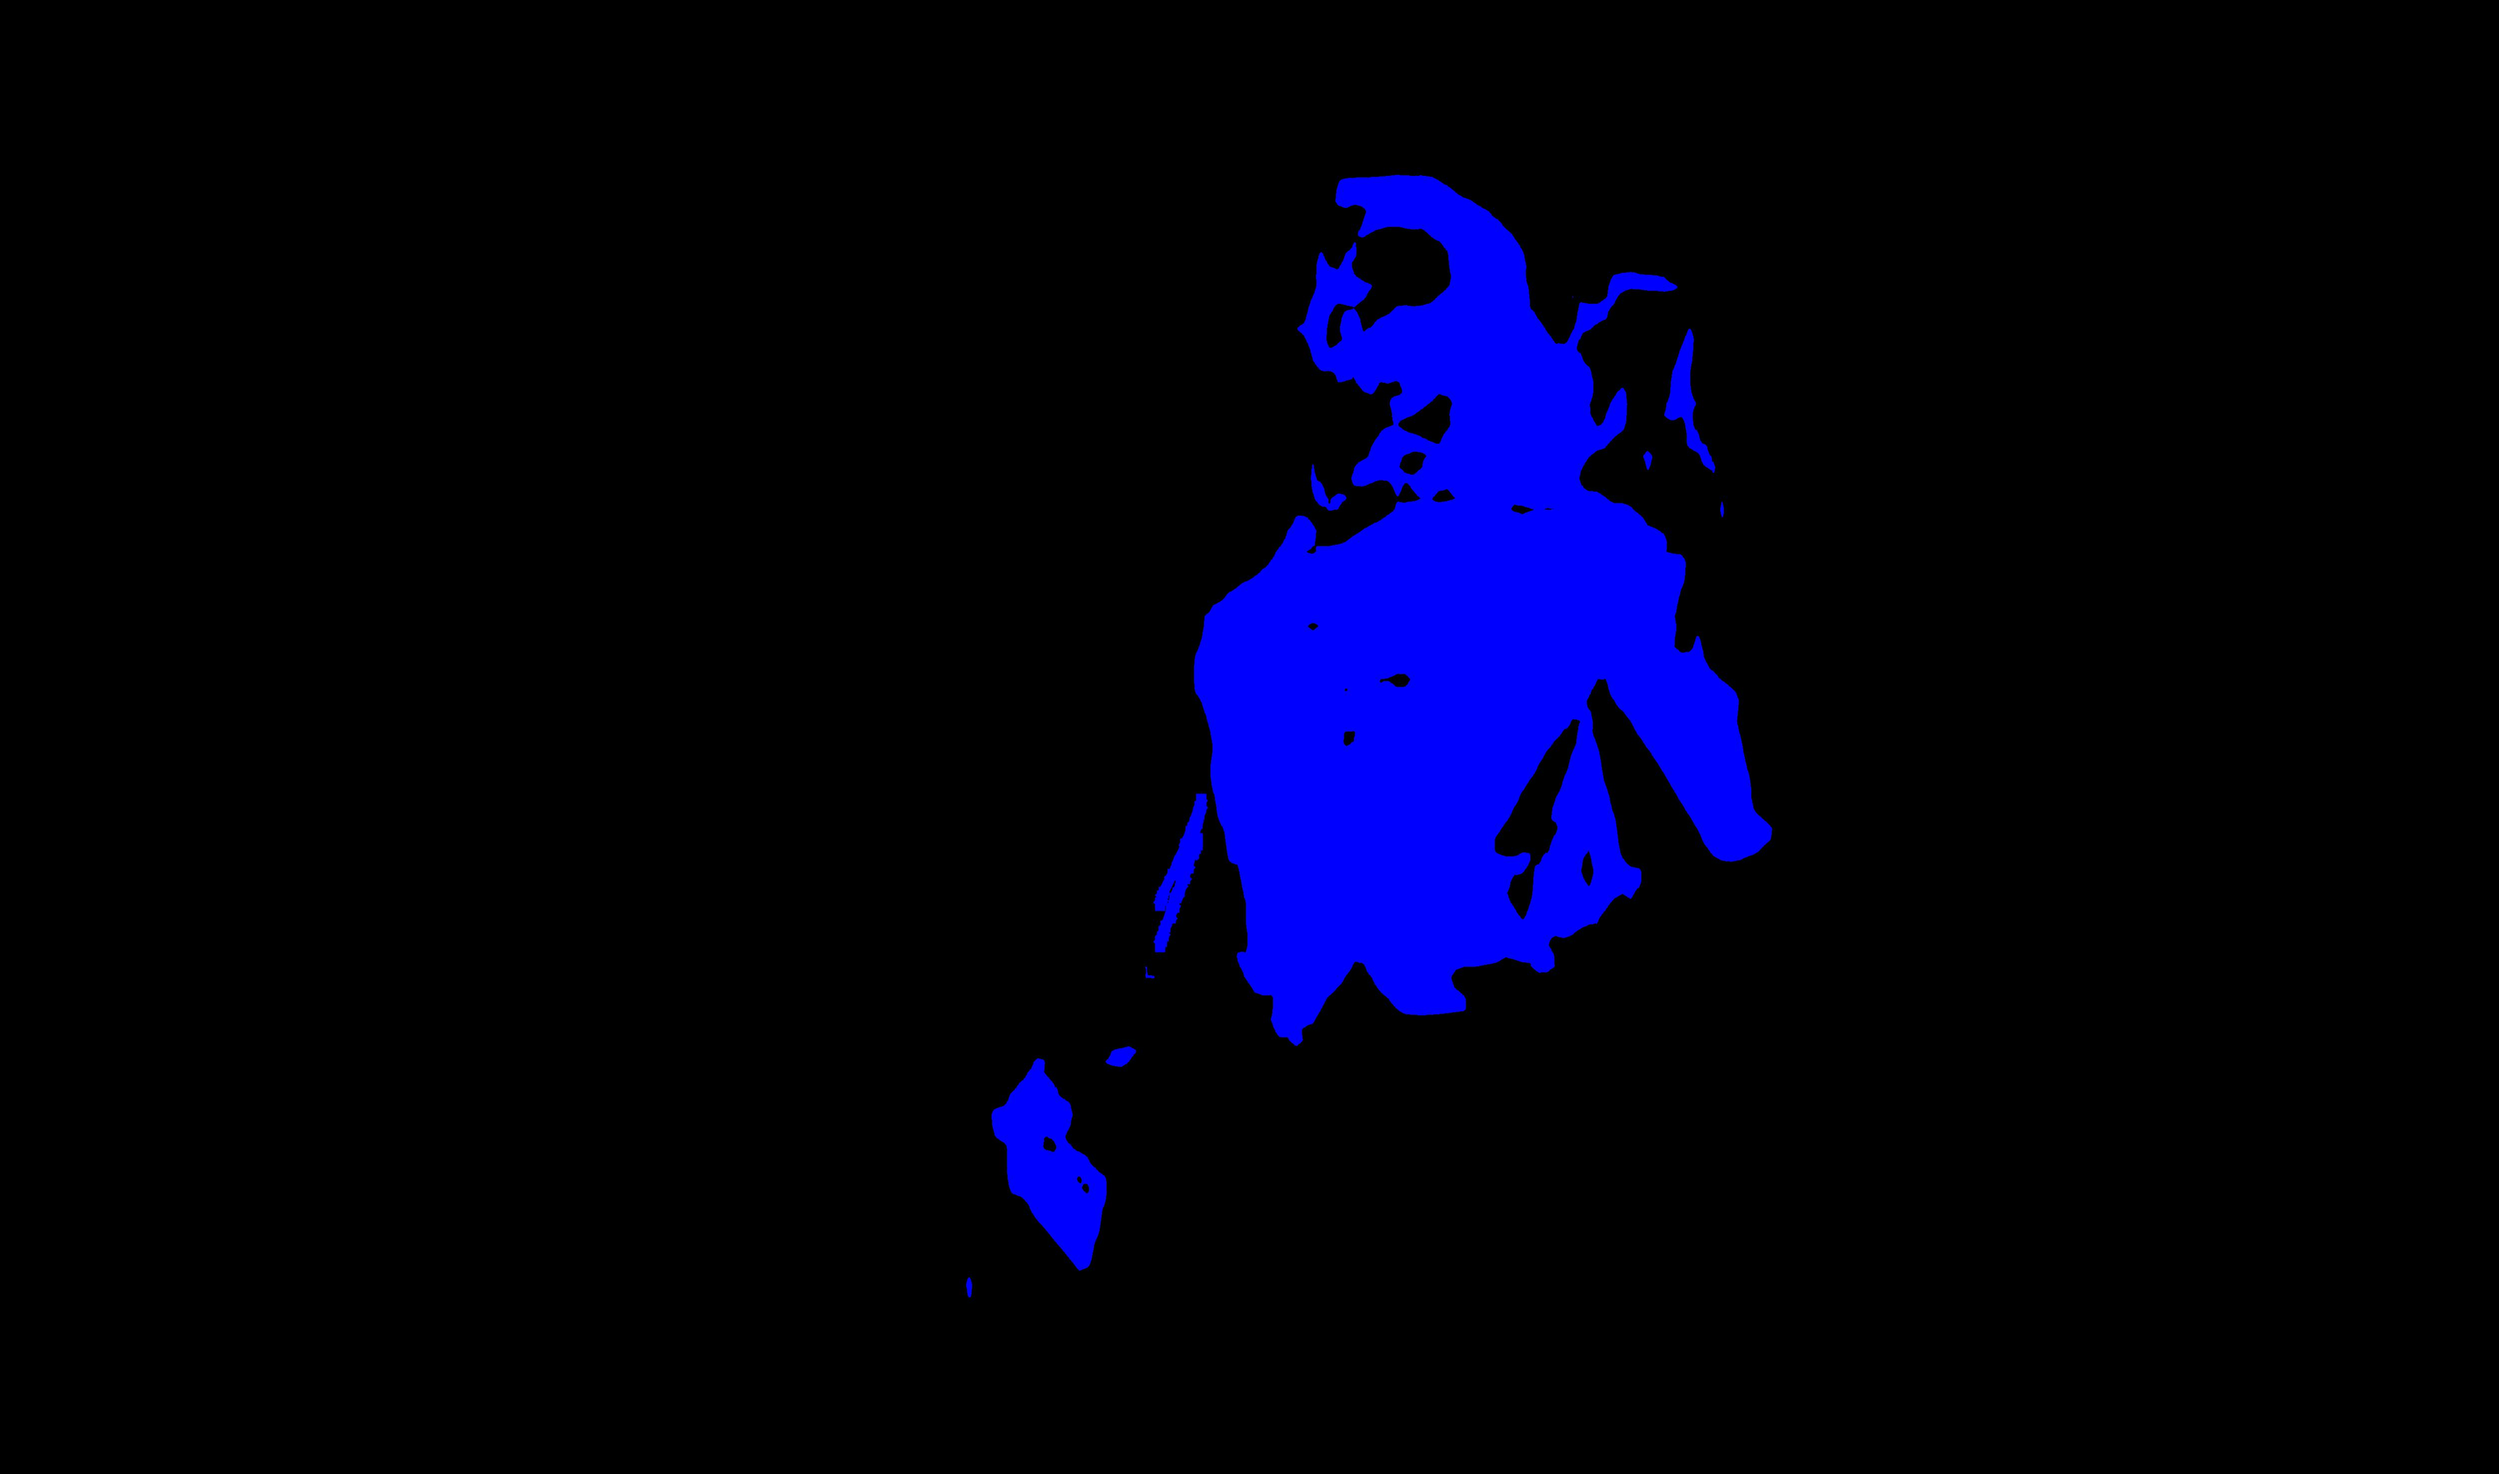
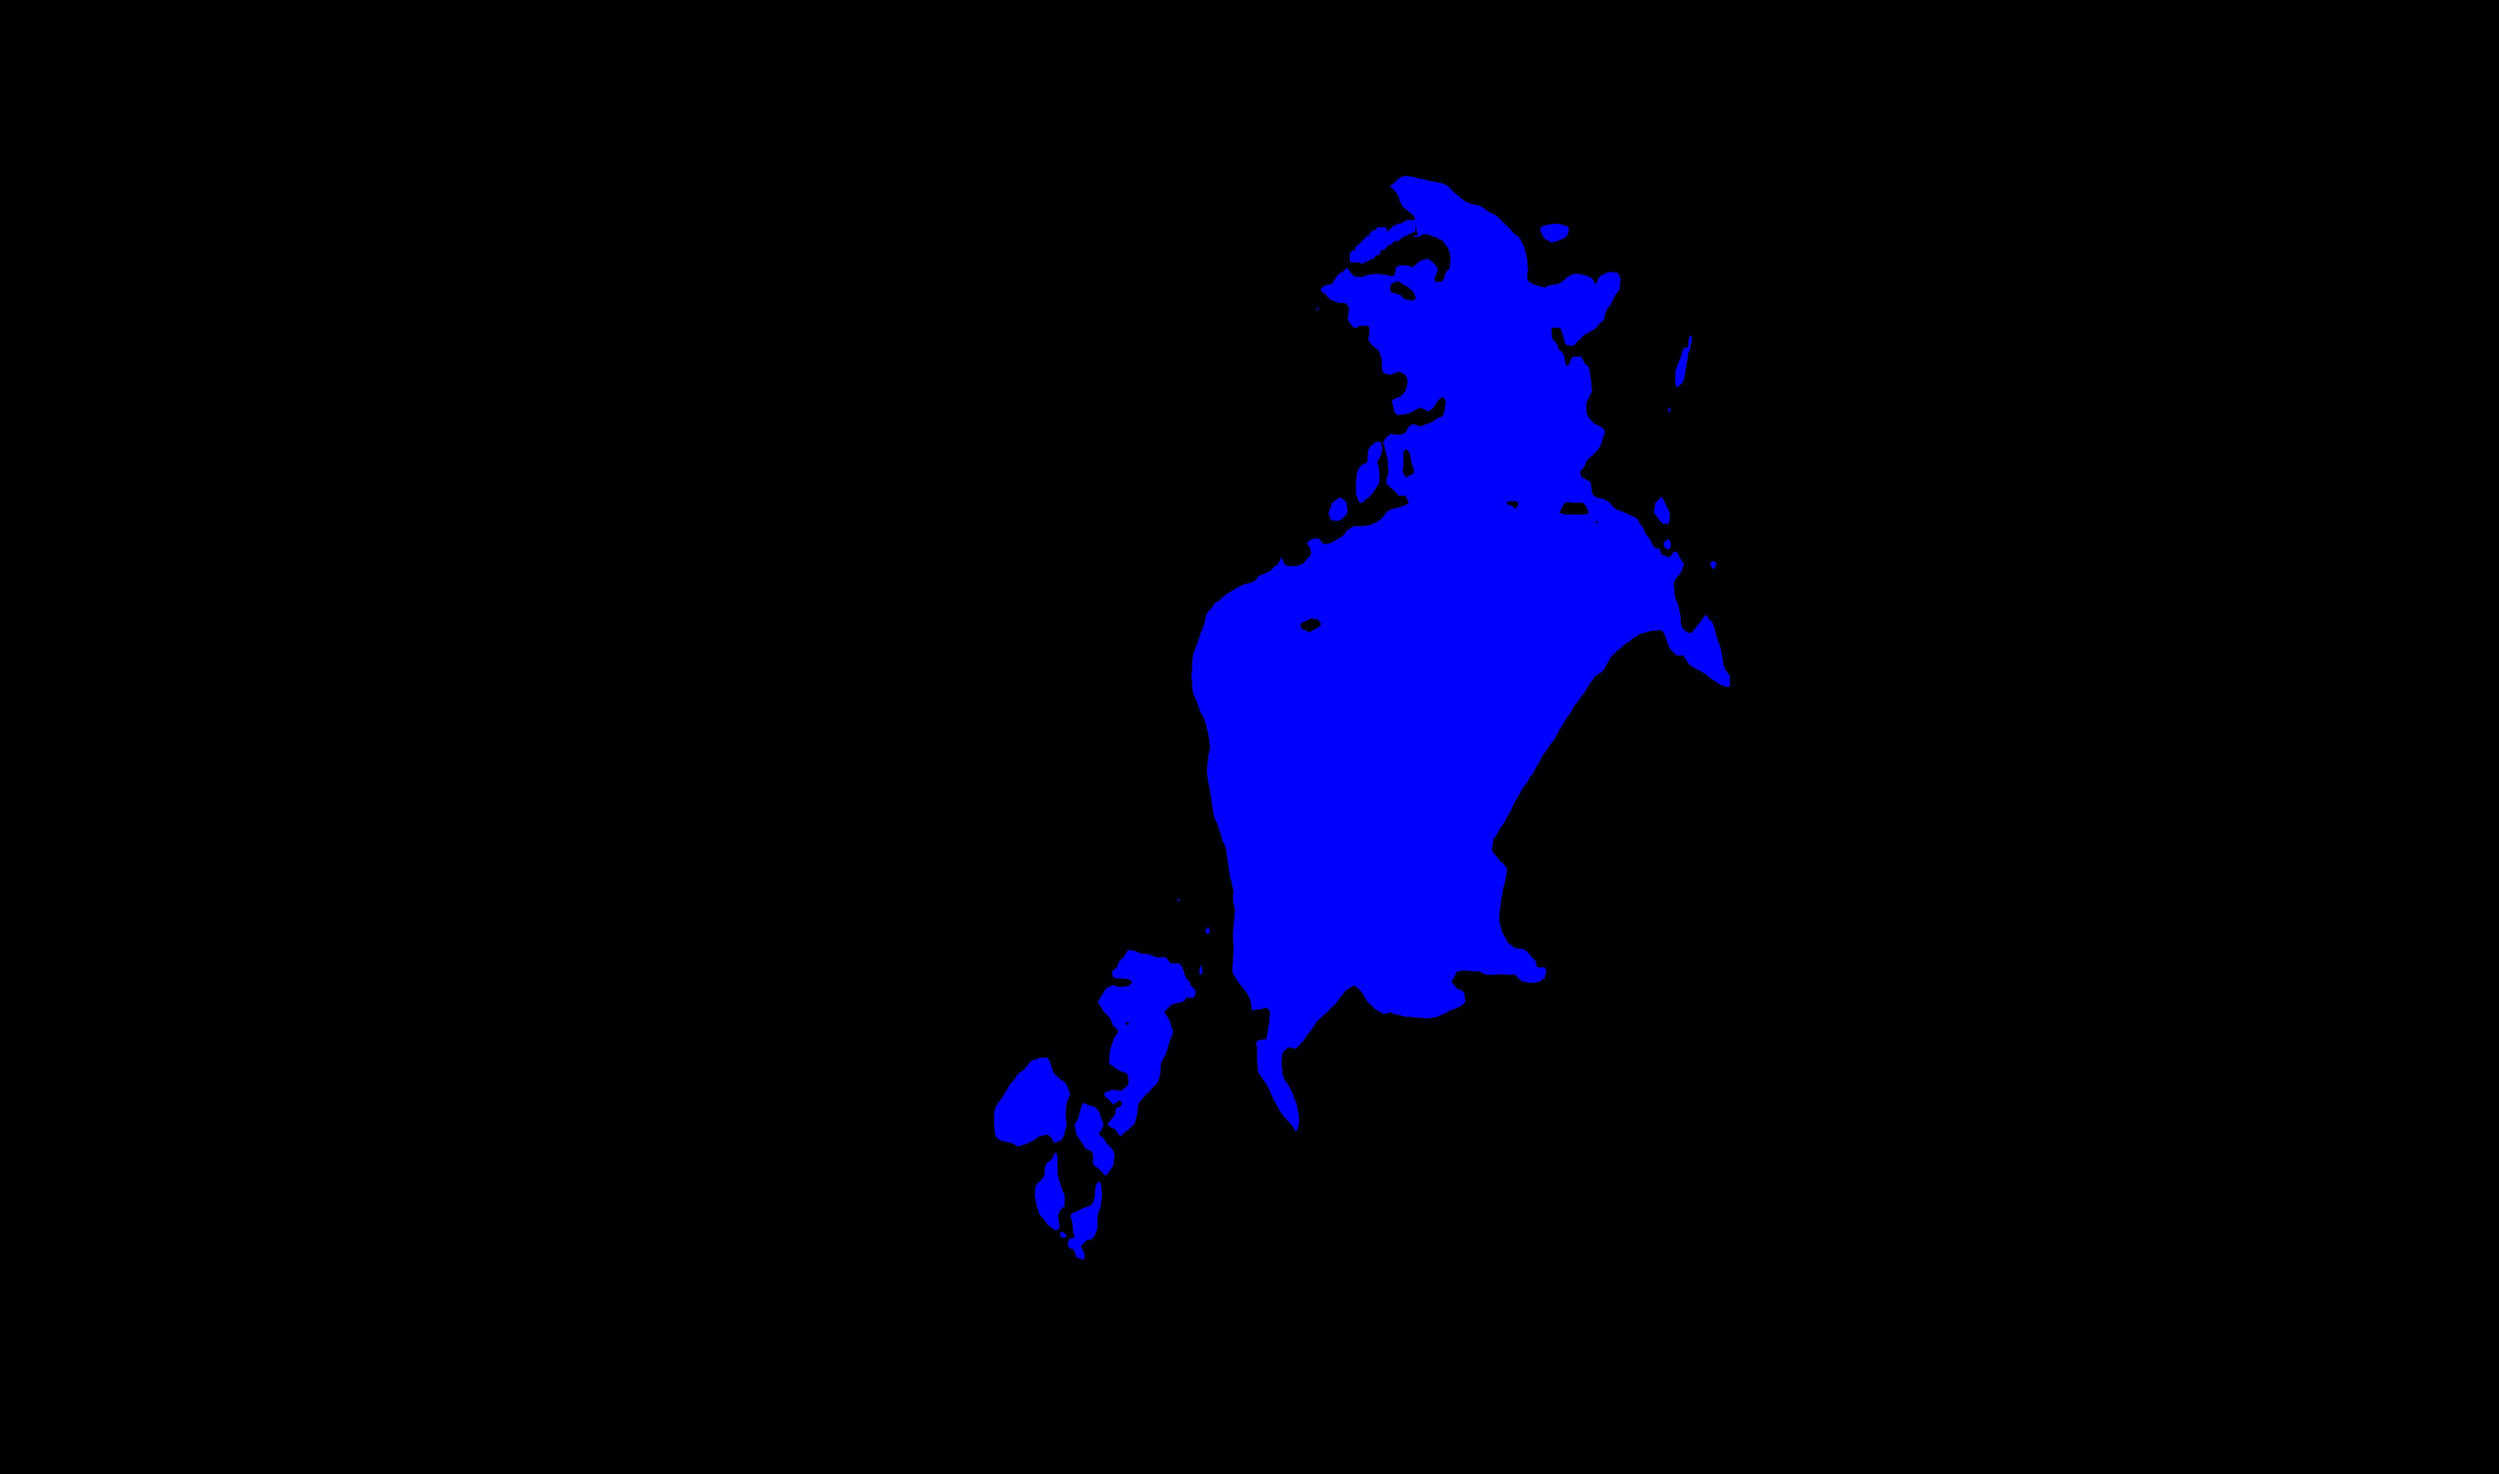
pencil and eraser complete

Changed region(s): [[0.4992, 0.0936, 0.7176, 0.6861], [0.4056, 0.5302, 0.5616, 0.8732]]

diff --git a/VOStyle/VOStyle/custom/graphicsView.py b/VOStyle/VOStyle/custom/graphicsView.py
@@ -249,10 +249,10 @@ class GraphicsView(QGraphicsView):
         return int((self.xc0 + self.xc1) / 2), int((self.yc0 + self.yc1) / 2)
 
     def start_drawing(self,img):
-        #self.mask.setPixmap(self.img_to_pixmap(img))
-        #self._scene2.addItem(self.mask)
         img2 = self.img_to_pixmap(img)
+        img2.scaled(img2.width(),img2.height(),aspectRatioMode=Qt.IgnoreAspectRatio,transformMode=Qt.SmoothTransformation)
         self._scene2.addPixmap(img2)
+        
         self.pen.setColor(QColor(settting.PEN_COLOR[2],settting.PEN_COLOR[1],settting.PEN_COLOR[0]))
         self.pen.setWidth(settting.PENCIL_WIDTH)
         self.drawing = True
@@ -267,16 +267,37 @@ class GraphicsView(QGraphicsView):
         for item in self.drawitems:
             self._scene2.addItem(item)
         self._scene2.render(painter)
-        painter.end()
+        painter.end()     
         image.save('./work_folder/segmentation_temp/seg_photo.jpg')
+        tmp = image
+        cv_image = np.zeros((tmp.height(), tmp.width(), 3), dtype=np.uint8)
+        print('begin cv_image type:',type(cv_image))
+        for row in range(0, tmp.height()):
+            for col in range(0, tmp.width()):
+                r = qRed(tmp.pixel(col, row))
+                g = qGreen(tmp.pixel(col, row))
+                b = qBlue(tmp.pixel(col, row))
+                # cv_image[row, col, 0] = r
+                # cv_image[row, col, 1] = g
+                # cv_image[row, col, 2] = b
+                cv_image[row, col, 0] = b
+                cv_image[row, col, 1] = g
+                cv_image[row, col, 2] = r
+                
         final_pic = cv2.imread('./work_folder/segmentation_temp/seg_photo.jpg')
-        
+        sum_covery = final_pic.sum(axis=2)
+        for c in range(3):
+            a = settting.PEN_COLOR[c]
+            final_pic[:, :, c] = np.where(
+                sum_covery <=10, 0,a)
+
+
         for item in self.drawitems:
             self._scene.removeItem(item)
             self._scene2.removeItem(item)
         self.update()
         self.drawing = False
-        return final_pic
+        return cv_image
 
     def start_erase(self,img):
         img2 = self.img_to_pixmap(img)
@@ -288,19 +309,41 @@ class GraphicsView(QGraphicsView):
     def end_erase(self):
         photo = self._photo.pixmap()
         
-        image = QImage(photo.size(),QImage.Format_ARGB32)
+        image = QImage(photo.size(),QImage.Format_RGB32)
         painter = QPainter()
         painter.begin(image)
+        painter.setRenderHint(QPainter.Antialiasing)
         for item in self.drawitems:
             self._scene2.addItem(item)
         self._scene2.render(painter)
         painter.end()
+        tmp = image
+        cv_image = np.zeros((tmp.height(), tmp.width(), 3), dtype=np.uint8)
+        print('begin cv_image type:',type(cv_image))
+        for row in range(0, tmp.height()):
+            for col in range(0, tmp.width()):
+                r = qRed(tmp.pixel(col, row))
+                g = qGreen(tmp.pixel(col, row))
+                b = qBlue(tmp.pixel(col, row))
+                # cv_image[row, col, 0] = r
+                # cv_image[row, col, 1] = g
+                # cv_image[row, col, 2] = b
+                cv_image[row, col, 0] = b
+                cv_image[row, col, 1] = g
+                cv_image[row, col, 2] = r
+
         image.save('./work_folder/segmentation_temp/seg_photo.jpg')
-        final_pic = cv2.imread('./work_folder/segmentation_temp/seg_photo.jpg')
+        final_pic = cv2.imread('./work_folder/segmentation_temp/seg_photo.jpg')      
+        sum_covery = final_pic.sum(axis=2)
+        for c in range(3):
+            a = settting.PEN_COLOR[c]
+            final_pic[:, :, c] = np.where(
+                sum_covery <=10, 0,a)
+
         for item in self.drawitems:
             self._scene.removeItem(item)
             self._scene2.removeItem(item)
         self.update()
         self.drawing = False
-        return final_pic
+        return cv_image
     
